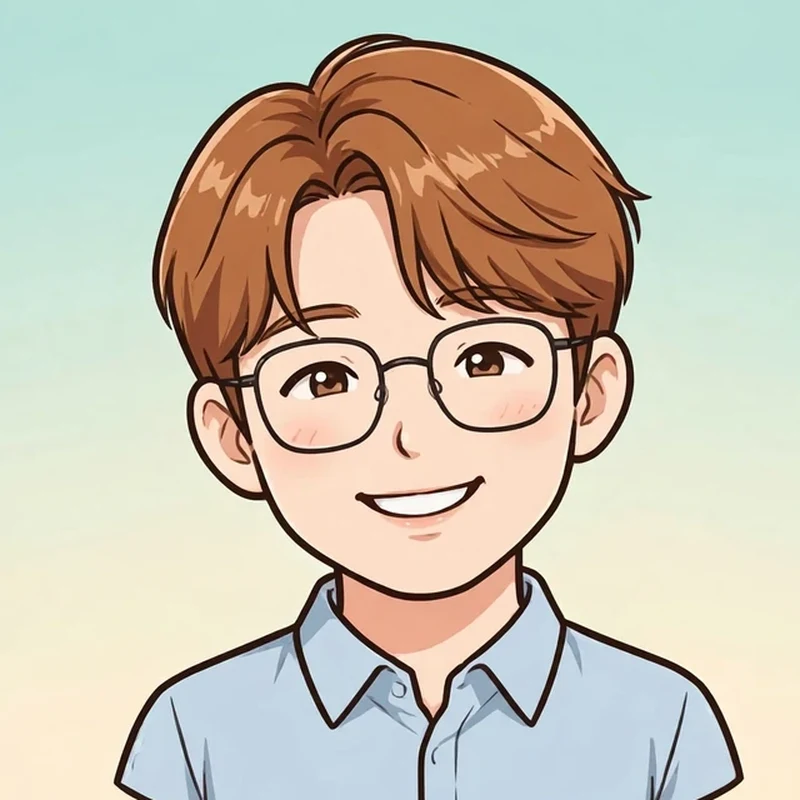
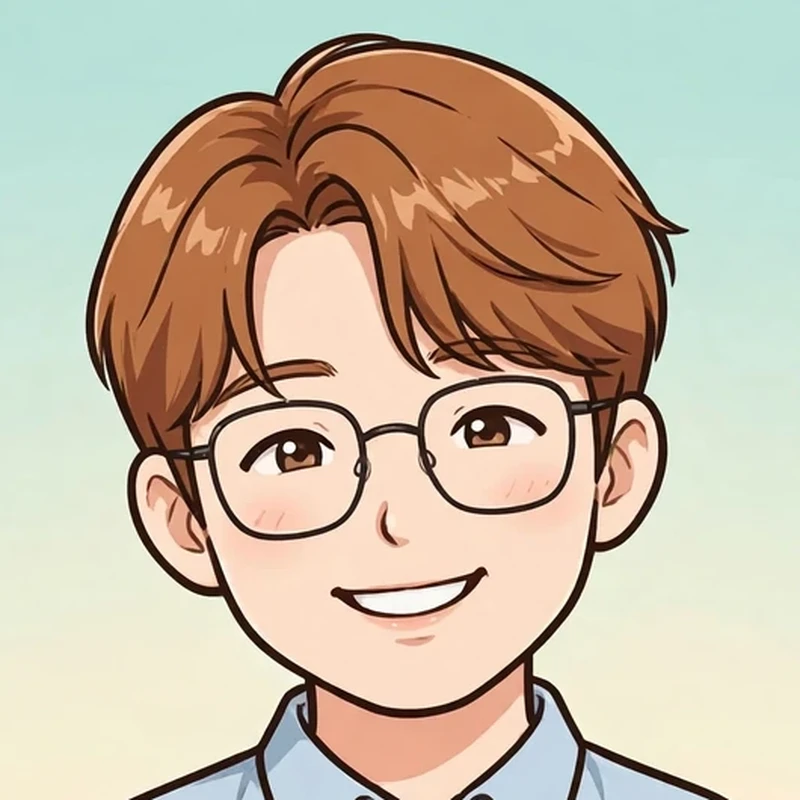
fix(about): 아바타 자르기를 위로 올려 팔 없어 보이는 어깨 제거
Claude-Session: https://claude.ai/code/session_01Jw1oS2ERkhAtNVYb8FFspK

diff --git a/src/app/about/page.tsx b/src/app/about/page.tsx
@@ -52,7 +52,7 @@ export default function AboutPage() {
         >
           <div className="relative aspect-square rounded-3xl glass overflow-hidden">
             <Image
-              src="/images/simsem-avatar-c-crop.webp"
+              src="/images/simsem-avatar-c-crop2.webp"
               alt="심선생 웹툰 캐릭터"
               fill
               sizes="(max-width: 768px) 100vw, 50vw"
